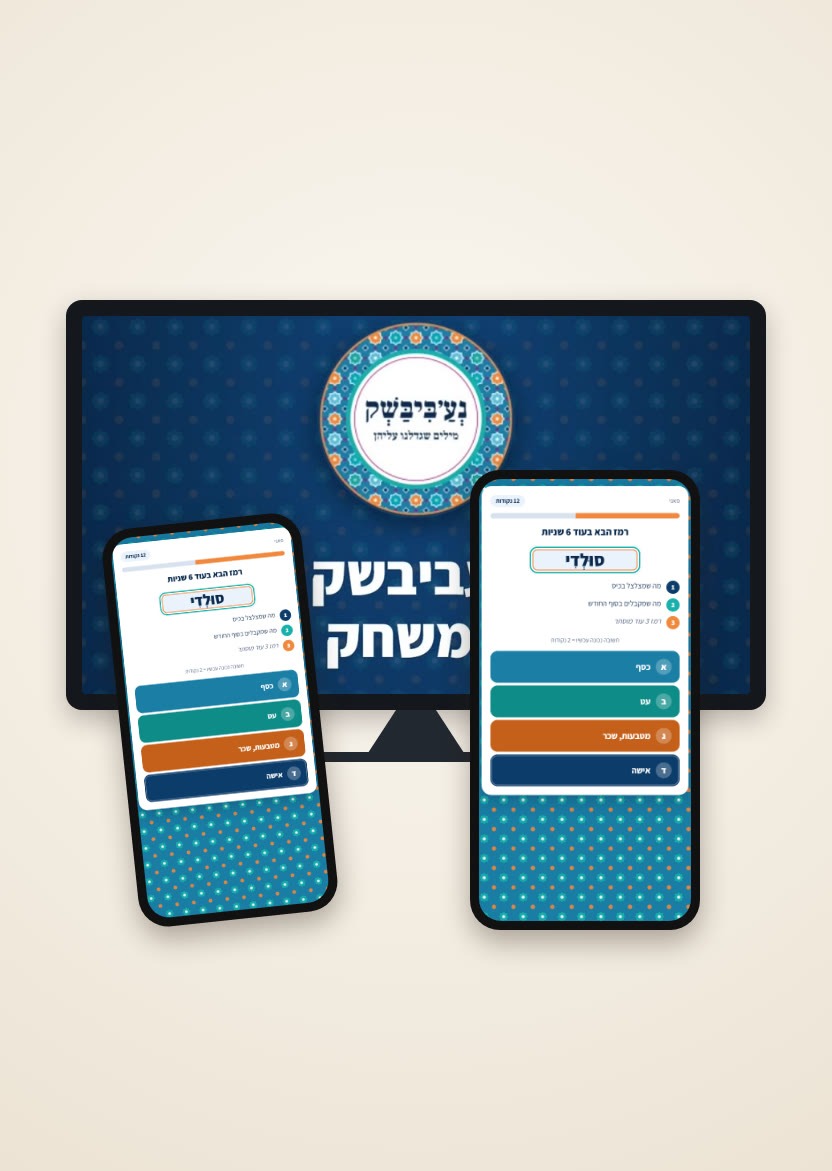
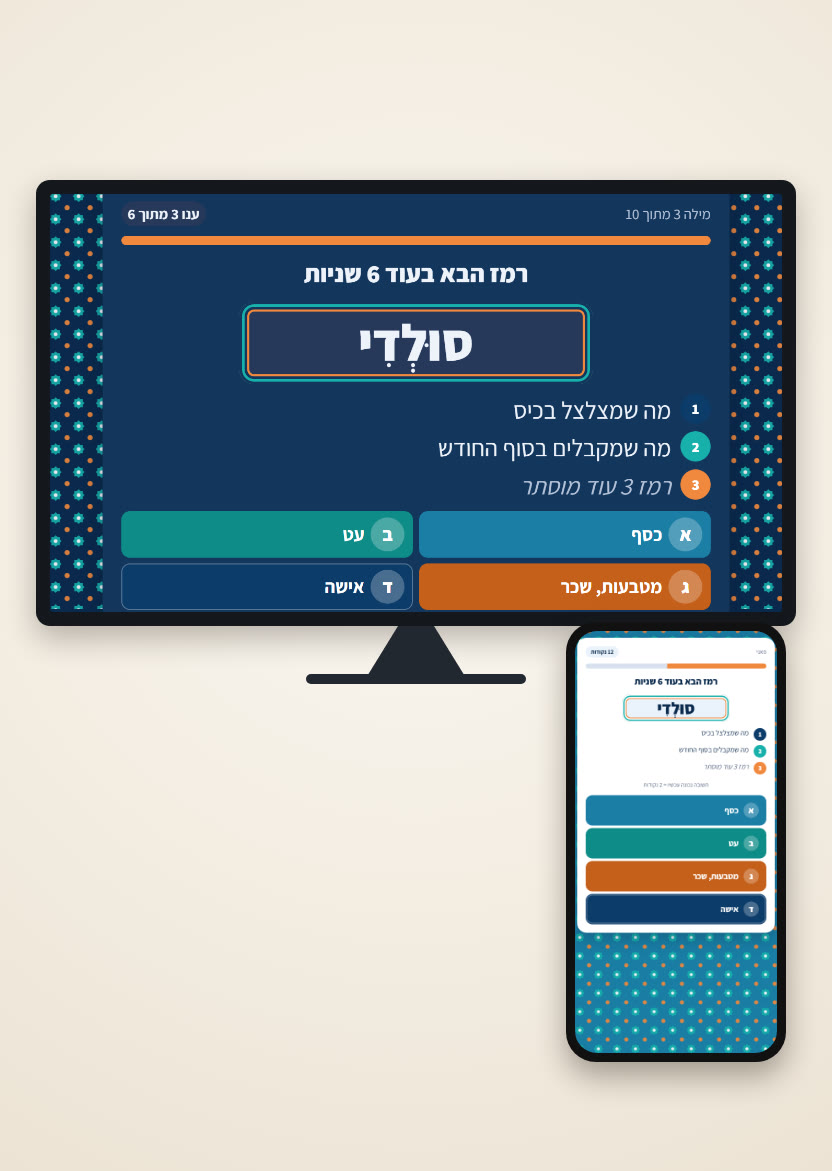
Shop: game gets its own page (#game, top menu); new online-game image; play page title

diff --git a/index.html b/index.html
@@ -455,6 +455,16 @@ const gameCard=`<div class="grid" style="grid-template-columns:repeat(2,minmax(0
   ${gItem('#play','img/game-online.jpg','המשחק על מסך הטלוויזיה ובטלפונים','בטלוויזיה ובטלפון','המילה על המסך, כל אחד עונה מהטלפון','מ־'+nis(39),'לפרטים ←')}
   ${gItem('#cards','img/game-box.jpg','קלפי המשחק נעביבשק','קופסת הקלפים','120 קלפים, משחקים סביב השולחן',nis(BOX_PRICE),'לפרטים ←')}
 </div>`;
+// דף משלו למשחק (#game) — הקישור בתפריט העליון מוביל לכאן
+function gameView(){
+  V.innerHTML=`
+  <section class="wrap sec" style="padding-top:48px;text-align:center">
+    <h1 style="font-size:clamp(38px,5vw,60px);line-height:1.1">נעביבשק · המשחק</h1>
+    <p style="color:var(--ink-soft);margin:8px 0 18px">המילים של סבתא, סביב השולחן · מהטלפון או עם קלפים</p>
+    <p style="max-width:620px;margin:0 auto 36px">משחק משפחתי של "הסבר את המילה" עם מילים מרוקאיות של יום־יום. הדורות משחקים ביחד, ובסוף הערב כולם יודעים עוד כמה מילים מהבית.</p>
+    ${gameCard}
+  </section>`;
+}
 function playView(){
   V.innerHTML=`
   <section class="wrap pp">
@@ -463,7 +473,7 @@ function playView(){
       <a class="back" href="#game">חזרה למשחק</a>
     </div>
     <div>
-      <h1>משחקים מהטלפון</h1>
+      <h1>משחקים מהטלפון ומהטלוויזיה</h1>
       <div class="by">נעביבשק · המשחק · המילים של סבתא, סביב השולחן</div>
       <p>משחק משפחתי של "הסבר את המילה" עם מילים מרוקאיות של יום־יום. על המסך מופיעה מילה, רמז חדש נחשף כל כמה שניות, וכל אחד עונה מהטלפון שלו. הדורות משחקים ביחד, ובסוף הערב כולם יודעים עוד כמה מילים מהבית.</p>
       <p>מסך אחד בסלון (טלוויזיה או לפטופ) וכל אחד עם הטלפון שלו. אין טלוויזיה? פותחים חדר מטלפון אחד ומשחקים רק מהטלפונים.</p>
@@ -908,8 +918,8 @@ function thanks(){
 function route(){
   const h=location.hash.slice(1);
   const p=P.find(x=>x.id===h);
-  if(p)product(p);else if(h==='trip'&&TRIP_ON)tripView();else if(h==='set'&&SET_ON)setView();else if(h==='cart')cartView();else if(h==='about')about();else if(LEGAL[h])legal(h);else if(h==='thanks')thanks();else if(h==='play')playView();else if(h==='cards')cardsView();else{shop();if(h==='prints'||h==='moroccan'||h==='game')document.getElementById(h).scrollIntoView()}
-  if(!(h==='prints'||h==='moroccan'||h==='game'))window.scrollTo(0,0);
+  if(p)product(p);else if(h==='trip'&&TRIP_ON)tripView();else if(h==='set'&&SET_ON)setView();else if(h==='cart')cartView();else if(h==='about')about();else if(LEGAL[h])legal(h);else if(h==='thanks')thanks();else if(h==='play')playView();else if(h==='cards')cardsView();else if(h==='game')gameView();else{shop();if(h==='prints'||h==='moroccan')document.getElementById(h).scrollIntoView()}
+  if(!(h==='prints'||h==='moroccan'))window.scrollTo(0,0);
 }
 document.getElementById('cartbtn').onclick=()=>{location.hash='cart'};
 addEventListener('hashchange',route);
